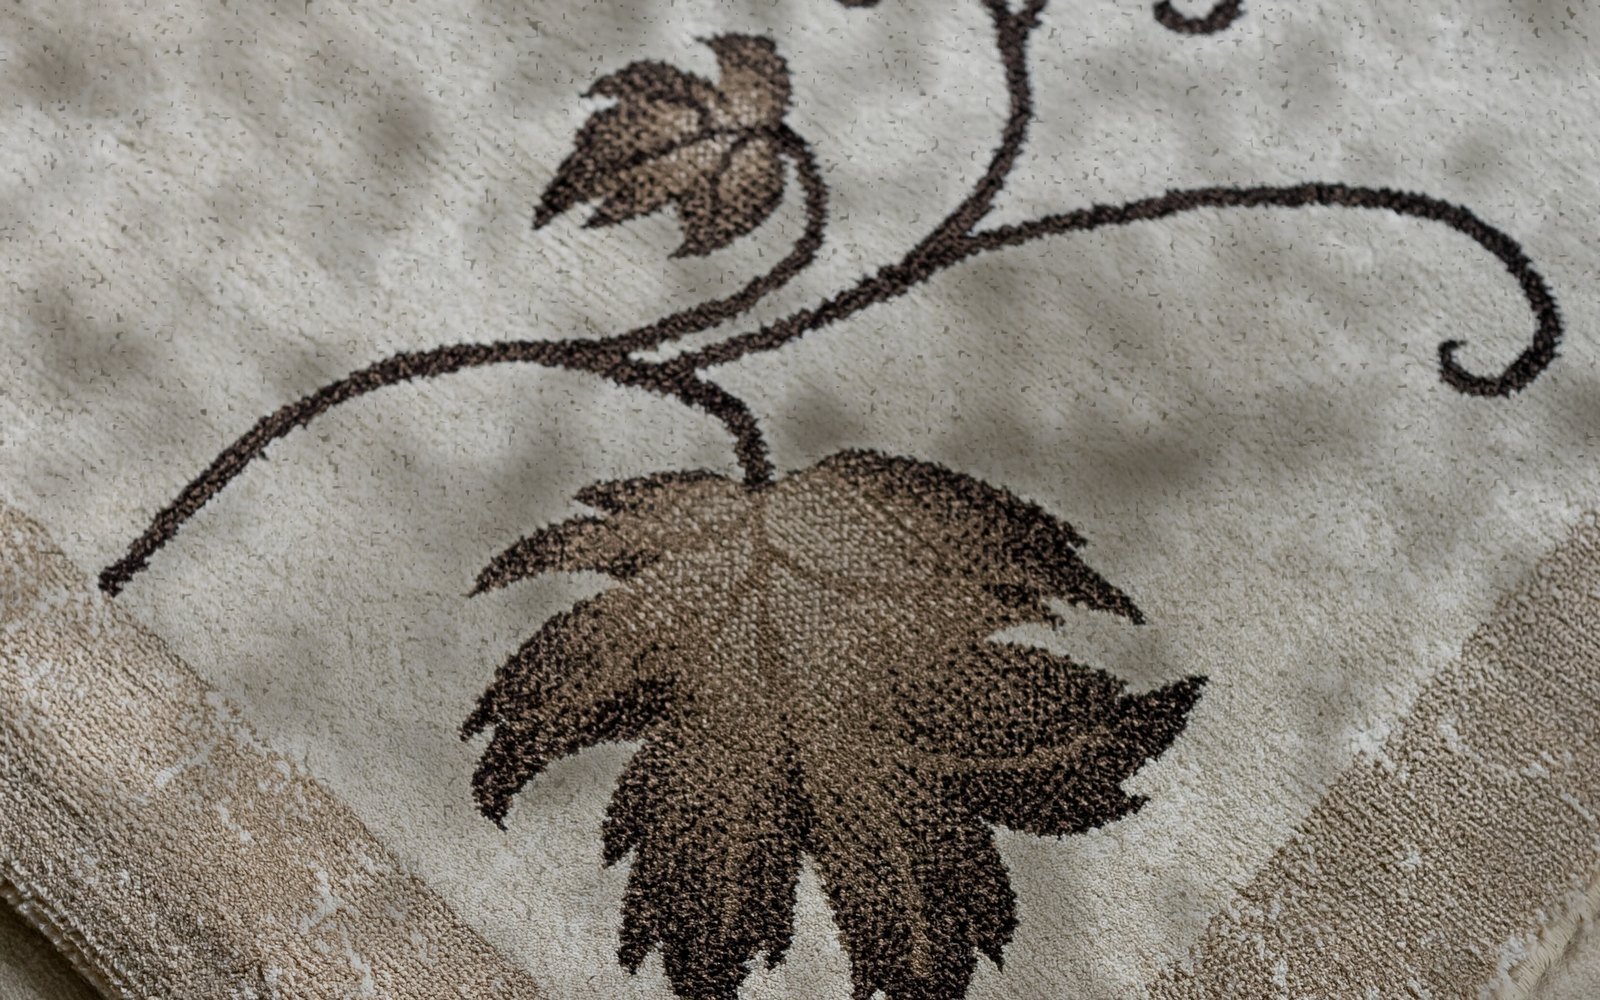
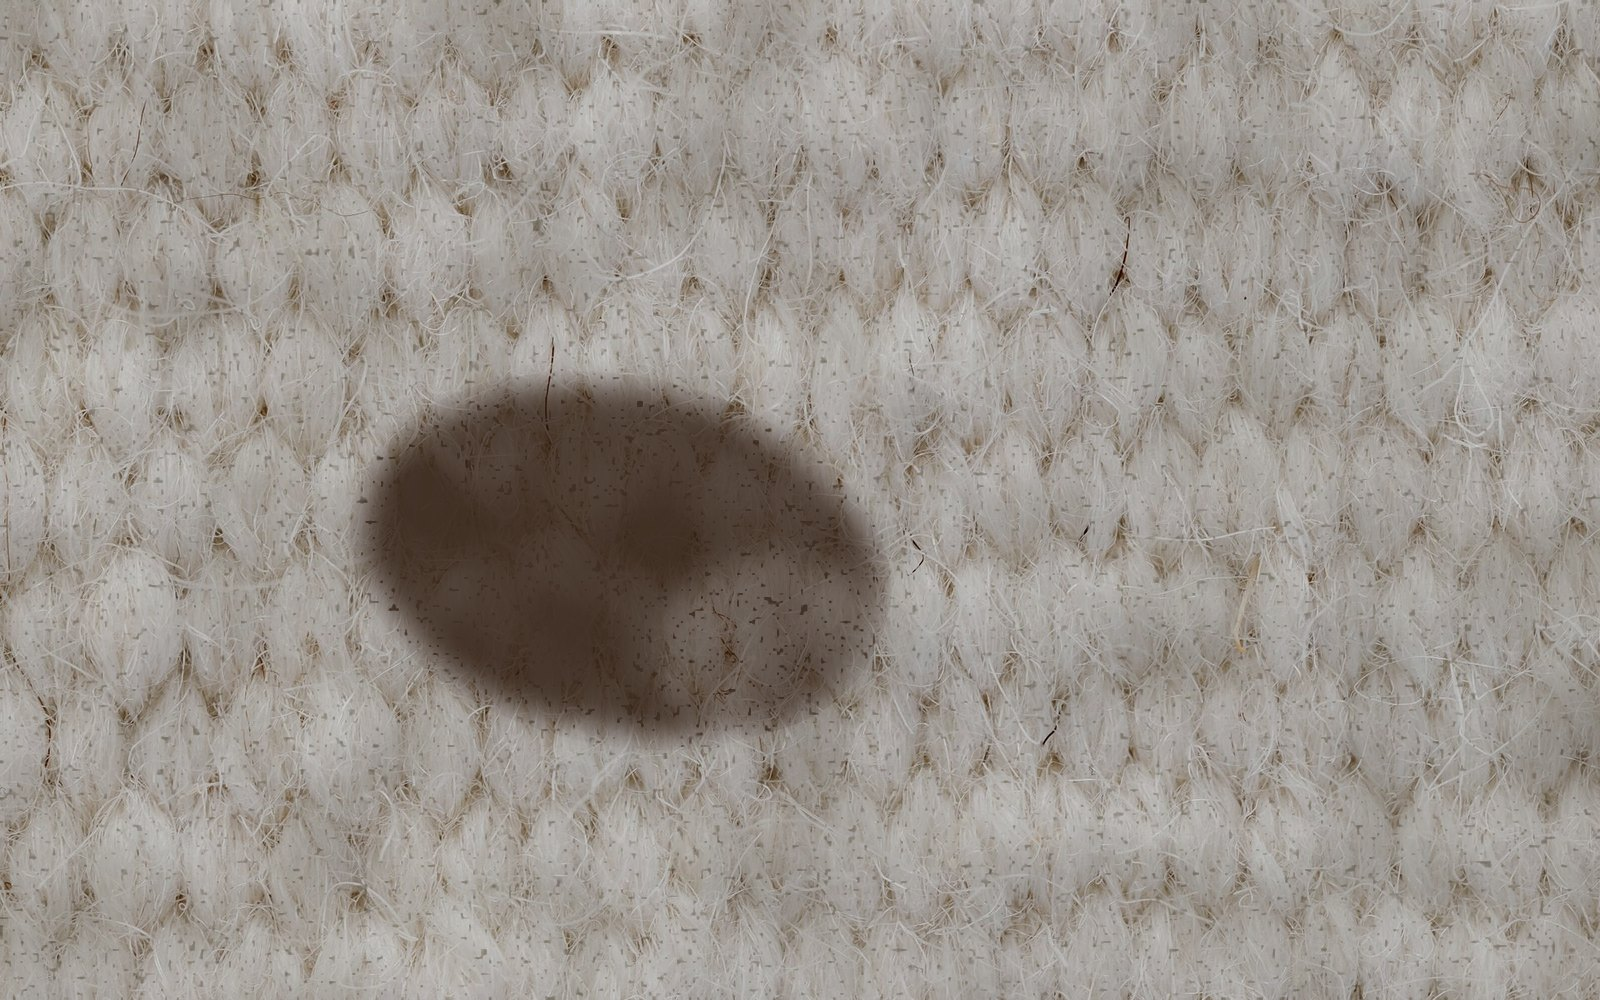
fix: antes/depois de tapetes sem diferença visível — nova imagem base
O par anterior usava um tapete com estampado que escondia a sujidade
editada. Substituído por tapete de lã liso e claro (Pexels 6634461):
depois branco e fofo; antes com nódoa de café/vinho bem definida,
sujidade difusa e salpicos — diferença agora óbvia à primeira vista.

diff --git a/README.md b/README.md
@@ -41,7 +41,7 @@ Algumas imagens usam fotografias do [Pexels](https://www.pexels.com)
 (licença gratuita para uso comercial, sem atribuição obrigatória):
 
 - Antes/depois **marítimo**: [17859032](https://www.pexels.com/photo/17859032/)
-- Antes/depois **tapetes**: [28379848](https://www.pexels.com/photo/28379848/)
+- Antes/depois **tapetes**: [6634461](https://www.pexels.com/photo/6634461/)
 - Galeria **interior de iate**: [8356428](https://www.pexels.com/photo/8356428/)
 - Galeria **lancha**: [34405154](https://www.pexels.com/photo/34405154/)
 - Card de serviço **residencial** (higienização de sofá em ação): [4401535](https://www.pexels.com/photo/4401535/)